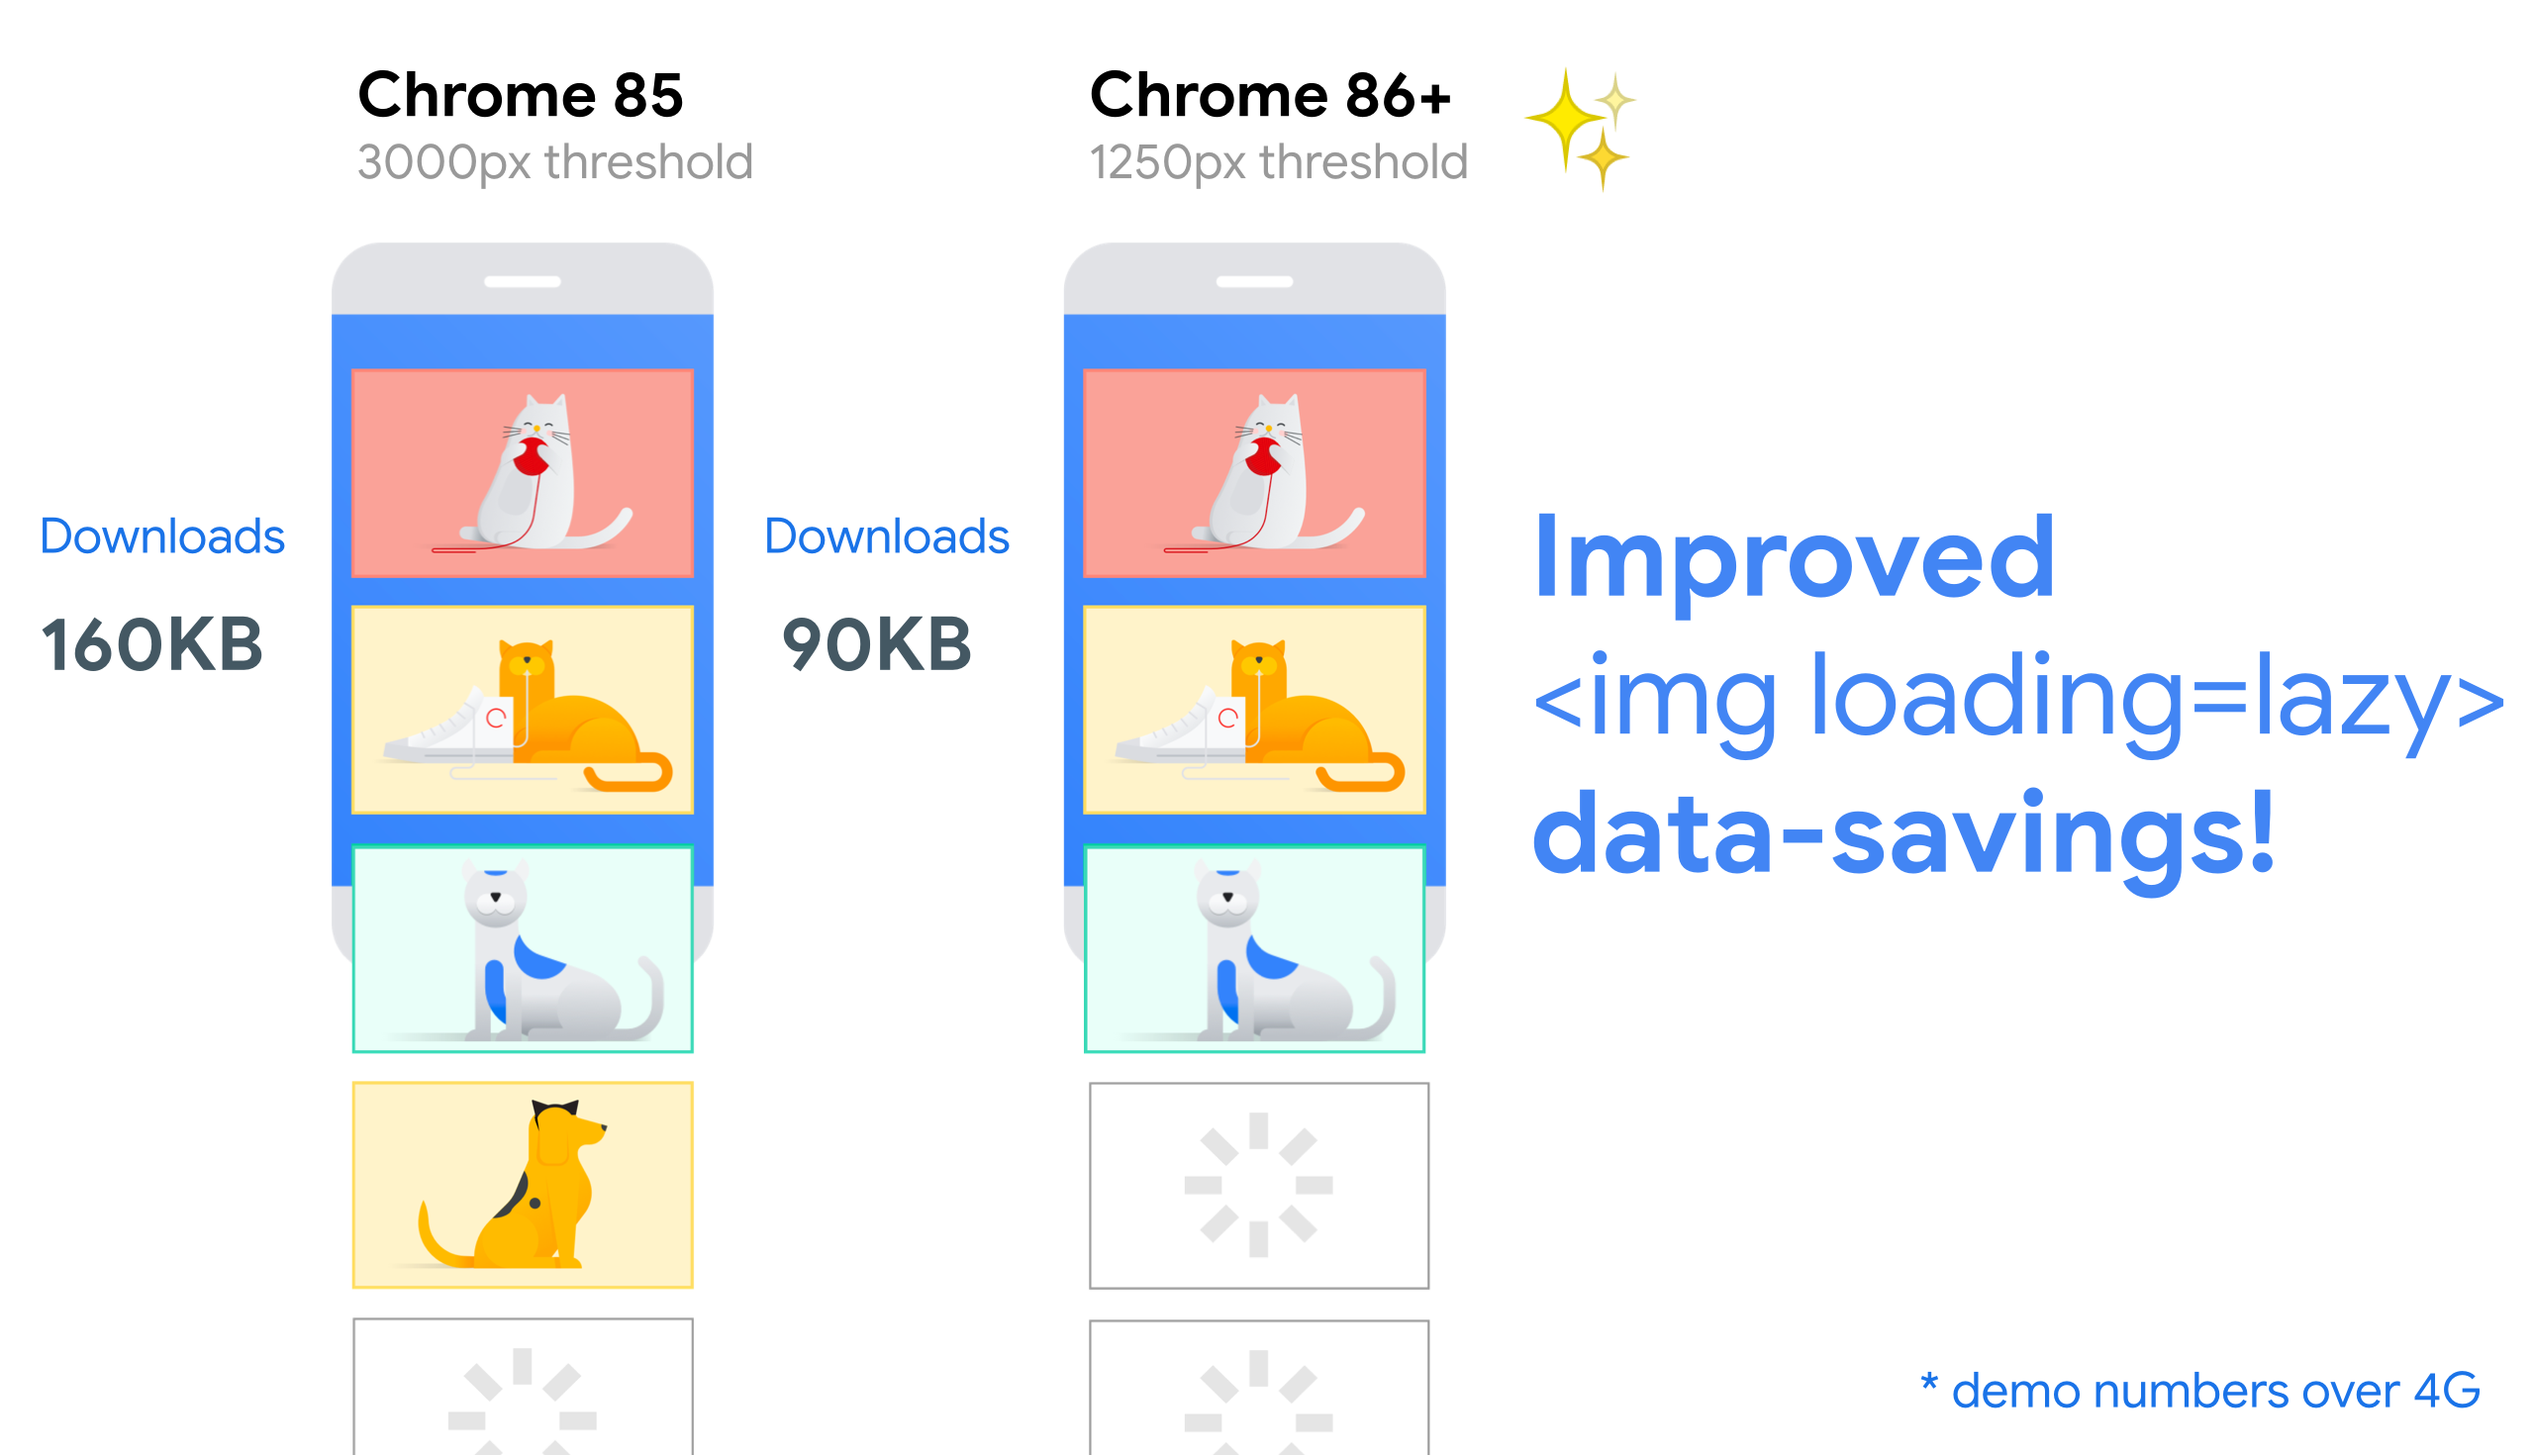
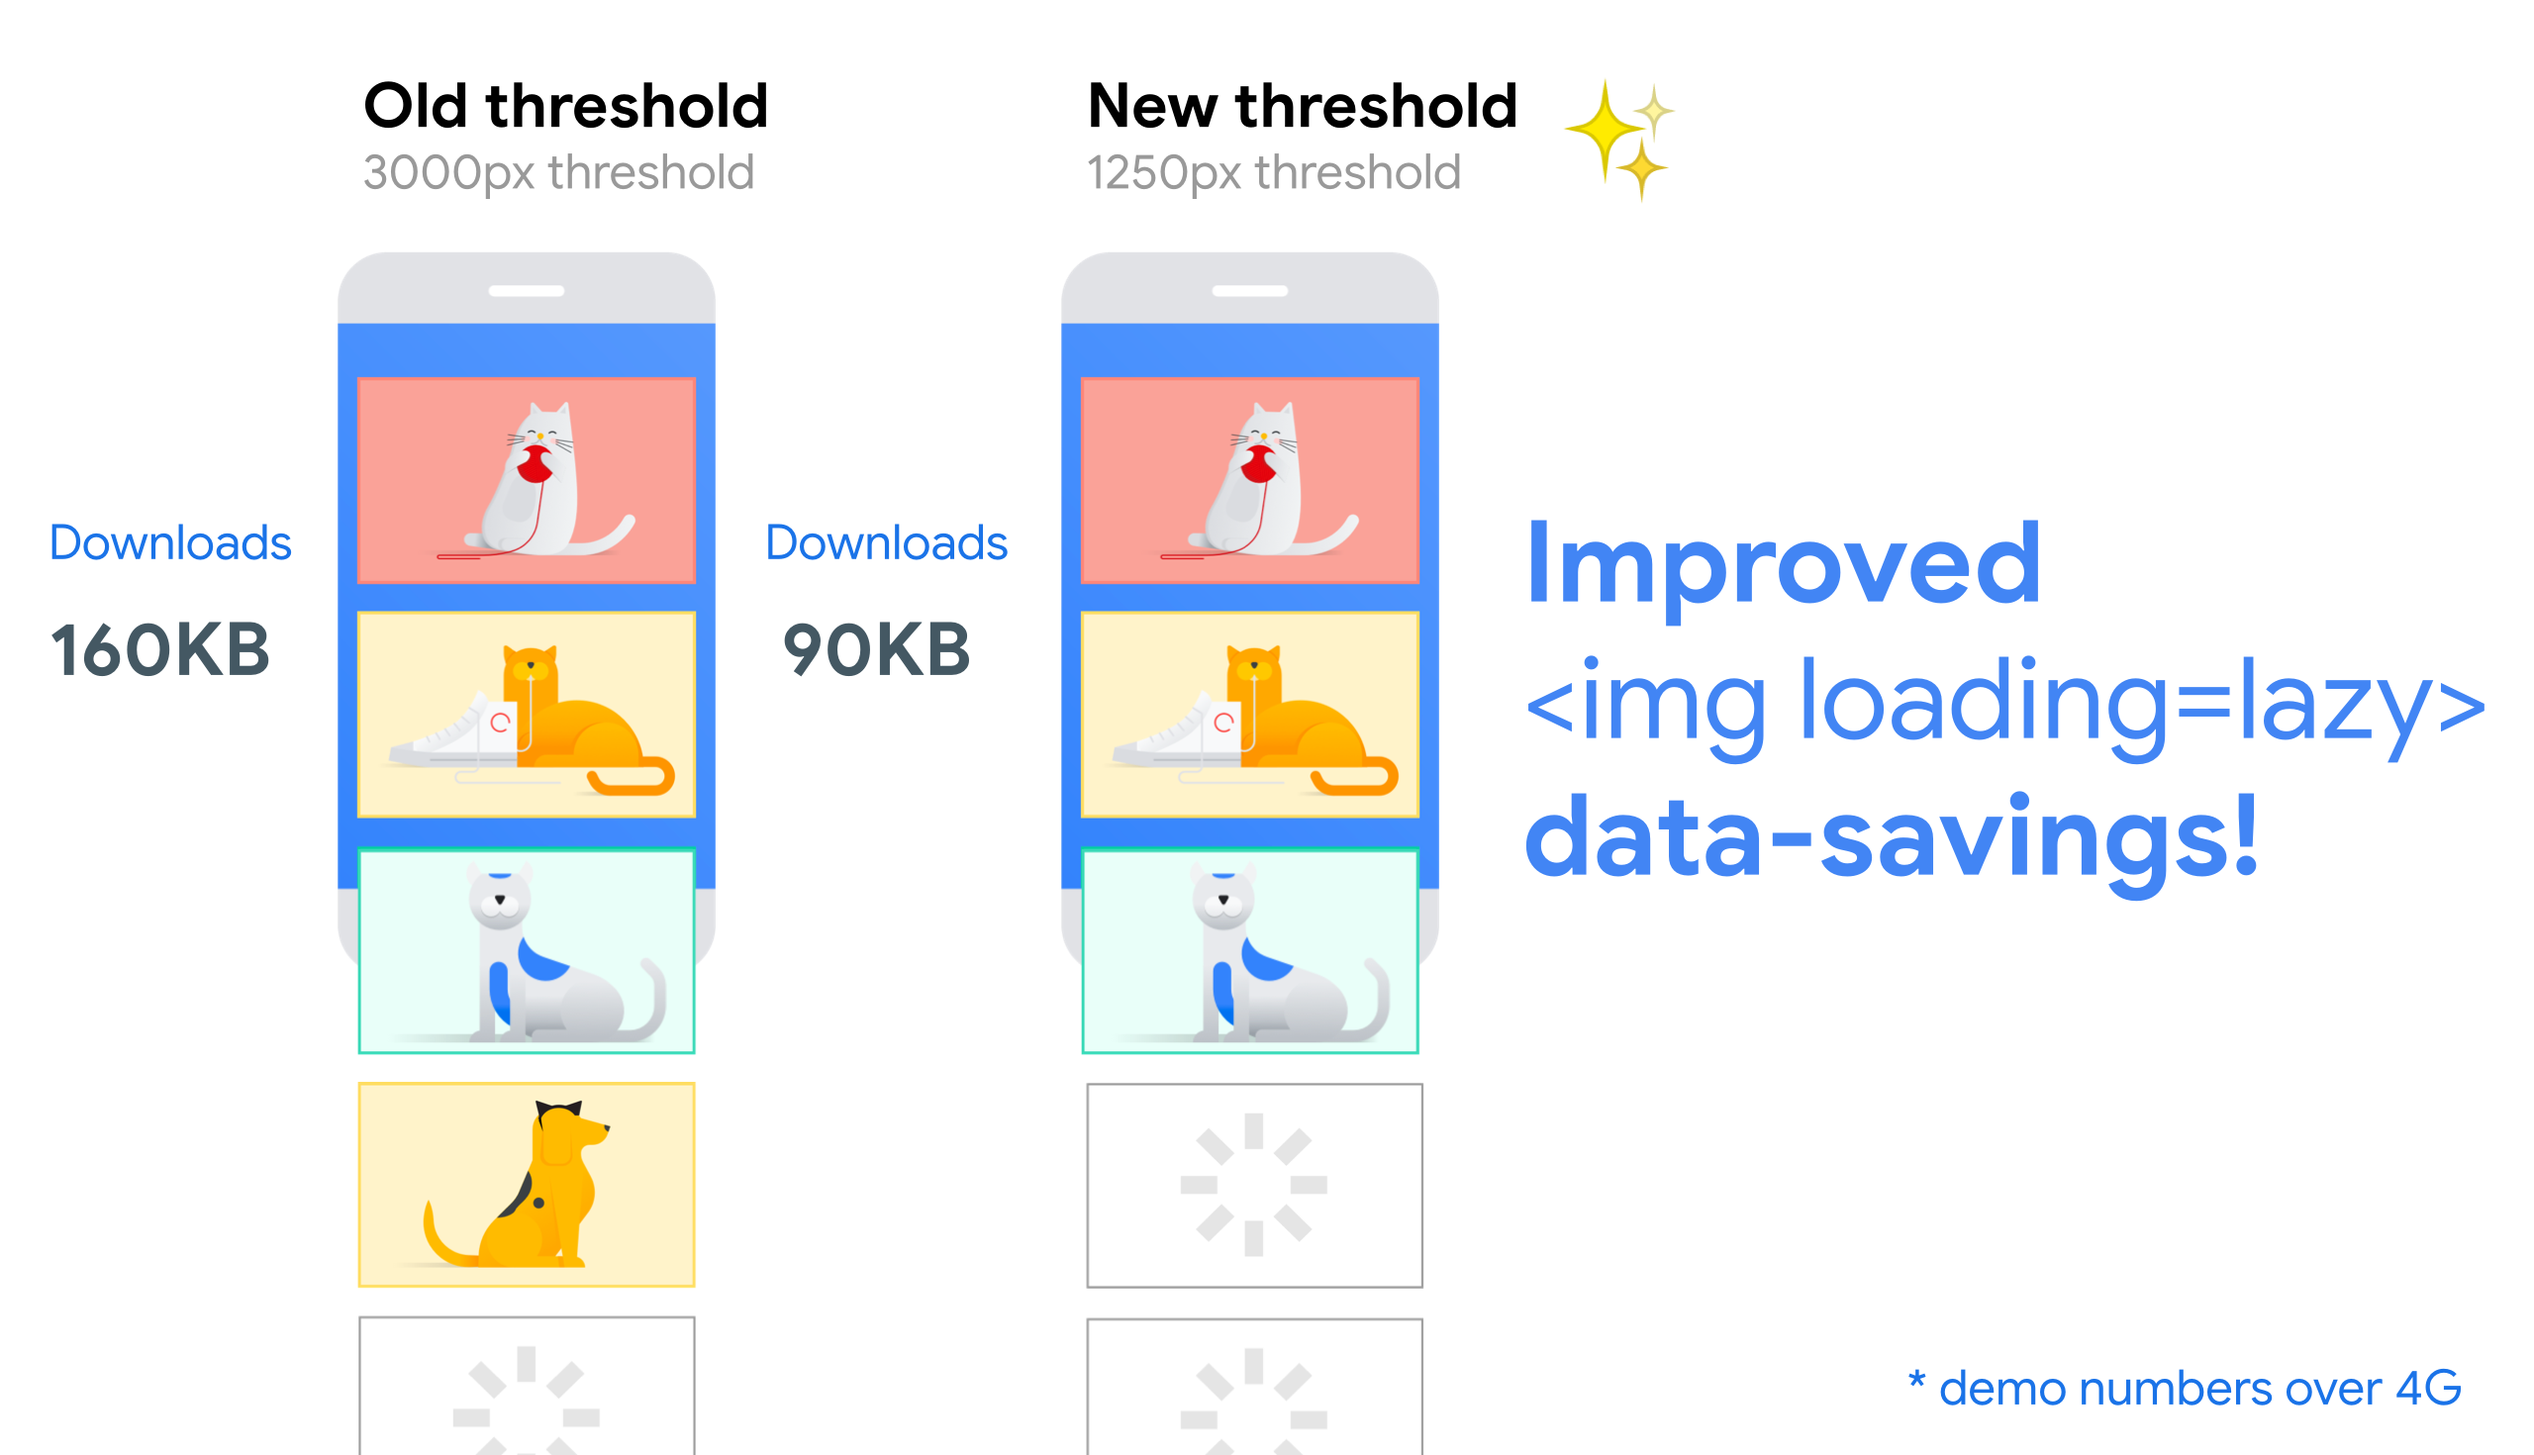
Align changes with latest team discussions

Changed region(s): [[0.0, 0.0306, 1.0, 0.8878], [0.75, 0.949, 0.9688, 0.9796]]

diff --git a/src/site/content/en/fast/native-lazy-loading/index.md b/src/site/content/en/fast/native-lazy-loading/index.md
@@ -111,28 +111,27 @@ the meantime, you will need to override the effective connection type of the bro
 `chrome://flags/#force-effective-connection-type` flag.
 {% endAside %}
 
-## Chrome 86+ improvements to distance-from-viewport thresholds
+## Improved data-savings and distance-from-viewport thresholds
 
-As of Chrome 86, a significant improvement has been made to align the native image lazy-loading distance-from-viewport thresholds to better meet developer expectations. 
+As of July 2020, Chrome has made significant improvements to align the native image lazy-loading distance-from-viewport thresholds to better meet developer expectations. 
 
-On fast connections (e.g 4G), we have reduced Chrome's distance-from-viewport thresholds from `3000px` to `1250px` and on slower connections (e.g 3G), changed the threshold from `4000px` to `2500px`. This change achieves two things:
+On fast connections (e.g 4G), we reduced Chrome's distance-from-viewport thresholds from `3000px` to `1250px` and on slower connections (e.g 3G), changed the threshold from `4000px` to `2500px`. This change achieves two things:
 
 * `<img loading=lazy>` behaves closer to the experience offered by JavaScript lazy-loading libraries.
 * The new distance-from-viewport thresholds still allow us to guarantee images have probably loaded by the time a user has scrolled to them.
 
 You can find a comparison between the old vs. new distance-from-viewport thresholds for one of our demos on a fast connection (4G) below:
 
-Chrome 85 and below vs. Chrome 86 onwards:
+Old thresholds. vs new thresholds:
 
 <figure class="w-figure">
-  <img src="./better-thresholds.png" alt="Chrome 86 has improved thresholds for native image lazy-loading, reducing the distance-from-viewport thresholds for fast connections from 3000px down to 1250px">
+  <img src="./better-thresholds.png" alt="The new and improved thresholds for native image lazy-loading, reducing the distance-from-viewport thresholds for fast connections from 3000px down to 1250px">
 </figure>
 
-
-and Chrome 86+ vs. LazySizes (a popular JS lazy-loading library):
+and the new thresholds vs. LazySizes (a popular JS lazy-loading library):
 
 <figure class="w-figure">
-  <img src="./lazysizes-threshold.png" alt="Chrome 86 distance-from-viewport thresholds loading 90KB of images compared to LazySizes loading in 70KB under the same network conditions">
+  <img src="./lazysizes-threshold.png" alt="The new  distance-from-viewport thresholds in Chrome loading 90KB of images compared to LazySizes loading in 70KB under the same network conditions">
 </figure>
 
 We are committed to working with the web standards community to explore better alignment in how distance-from-viewport thresholds are approached across different browsers.
